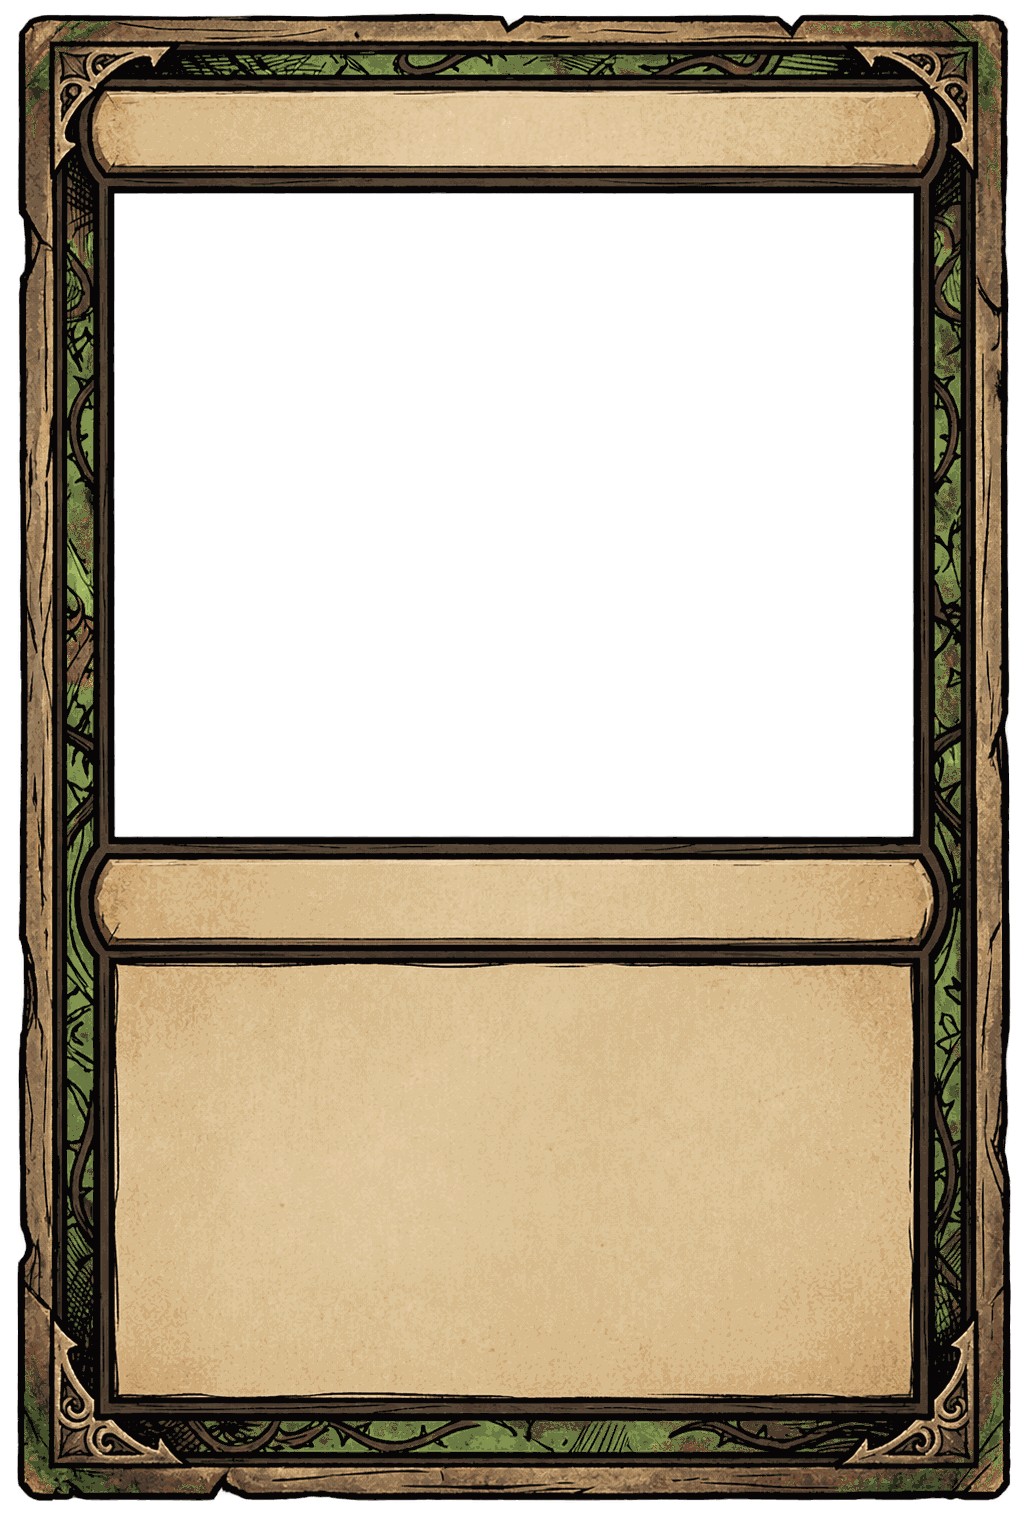
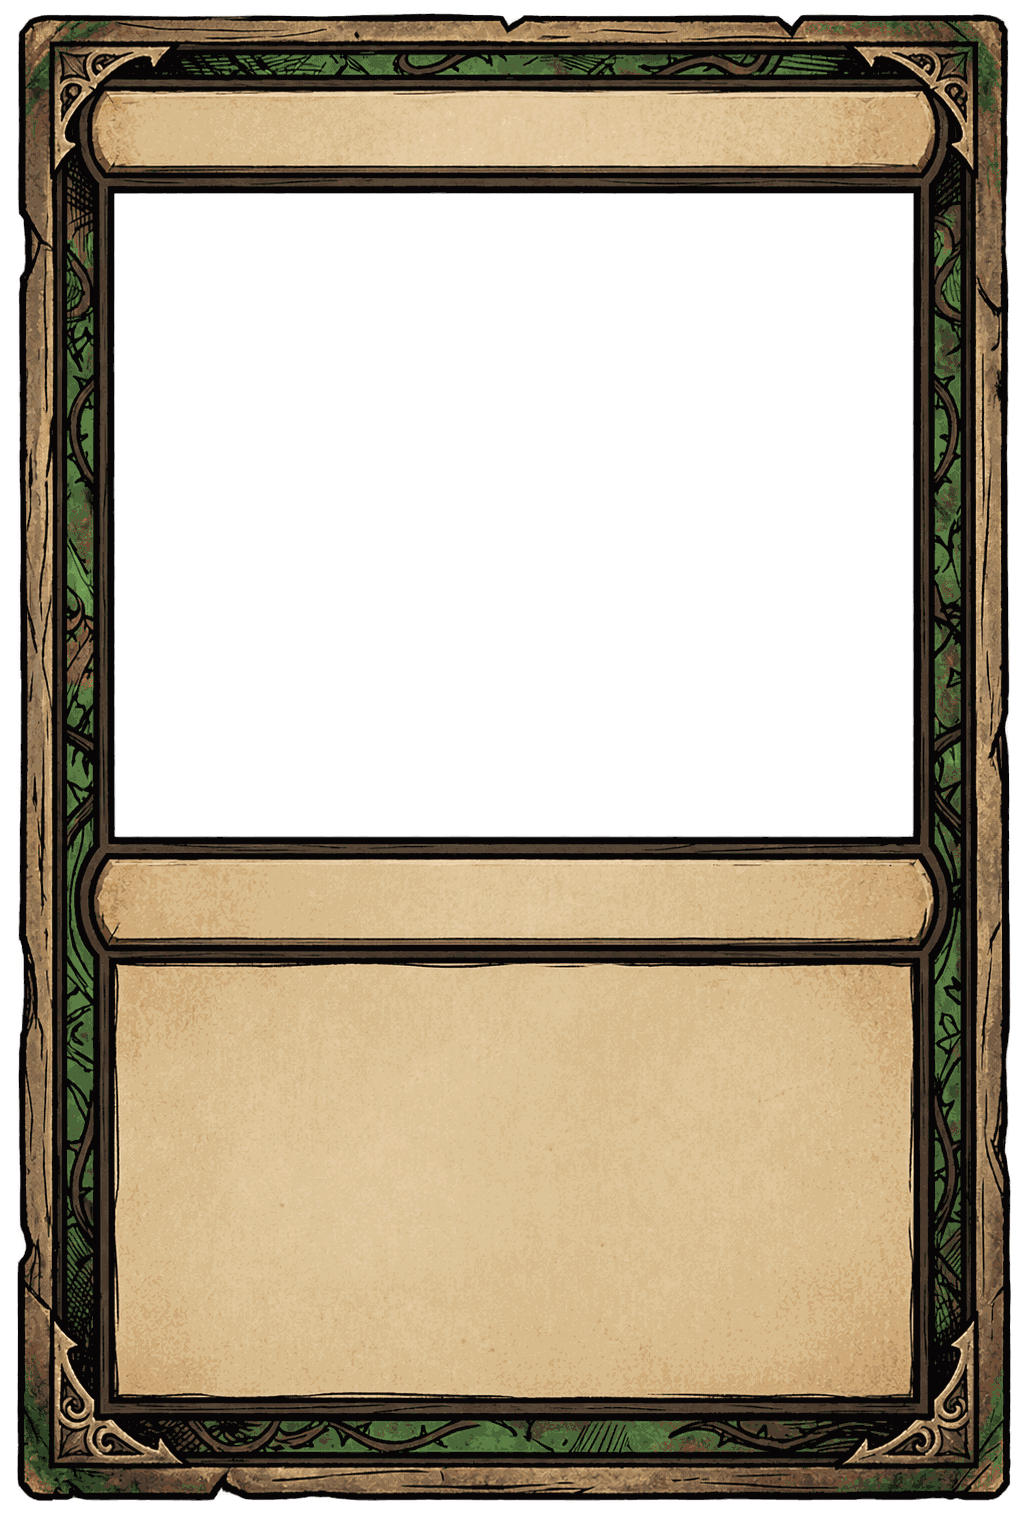
fix(taller): la comun deja de competir con el oro de la elite
Con la elite en oro, la comun en verde oliva quedaba a 29 de distancia:
las dos tiraban a amarillo y en la rejilla se parecian. Pasa a verde mas
puro y mas oscura, que ademas es lo que le toca siendo la humilde.

Separacion minima de los once marcos: 32, contra los 2 de arma/muro que
empezaron todo esto.

diff --git a/public/taller/index.html b/public/taller/index.html
@@ -8,8 +8,8 @@
      cachea. Por eso las referencias van con ?v=: al cambiar el numero, el
      navegador se trae la version nueva sin que nadie tenga que vaciar la
      cache. HAY QUE SUBIRLO al tocar cualquiera de esos ficheros. -->
-<link rel="stylesheet" href="css/styles.css?v=20260919">
-<link rel="stylesheet" href="css/theme-web.css?v=20260919">
+<link rel="stylesheet" href="css/styles.css?v=20260920">
+<link rel="stylesheet" href="css/theme-web.css?v=20260920">
 
 <div class="app">
 
@@ -389,4 +389,4 @@
 </div>
 
 <div id="toast" class="toast"></div>
-<script src="js/app.js?v=20260919"></script>
+<script src="js/app.js?v=20260920"></script>

diff --git a/public/taller/js/app.js b/public/taller/js/app.js
@@ -1252,7 +1252,7 @@
     };
     // Si falta el fichero no pasa nada: se queda con el marco base.
     im.onerror = () => {};
-    im.src = `images/marcos/marco-${tipo}.png?v=20260919`;
+    im.src = `images/marcos/marco-${tipo}.png?v=20260920`;
   }
   /**
    * Clave de layout EFECTIVA: la del marco que realmente se está pintando.
@@ -2465,6 +2465,6 @@
       draw();
     };
     im.onerror = () => {};
-    im.src = 'images/marco.png?v=20260919';   // ver la nota del ?v= en index.html
+    im.src = 'images/marco.png?v=20260920';   // ver la nota del ?v= en index.html
   })();
 })();

diff --git a/herramientas/generar-marcos.py b/herramientas/generar-marcos.py
@@ -32,7 +32,7 @@ SC = r'C:\Users\ivmab\AppData\Local\Temp\claude\C--Users-ivmab-Documents-Taponaz
 # son este juego. Minima resultante: 36 sobre 255.
 PALETA = {
     # tono · saturacion · luz · brillo
-    'comun':      (75,  0.50, 1.05, 0.0),   # verde oliva: la mas humilde
+    'comun':      (95,  0.50, 0.88, 0.0),   # verde, mas oscuro: la humilde no compite con el oro
     'elite':      (45,  0.70, 1.25, 0.55),  # ORO con luz
     'legendaria': (48,  0.80, 1.45, 1.00),  # ORO RADIANTE: el escalon de arriba
     'spell':      (285, 0.52, 1.10, 0.0),   # morado
